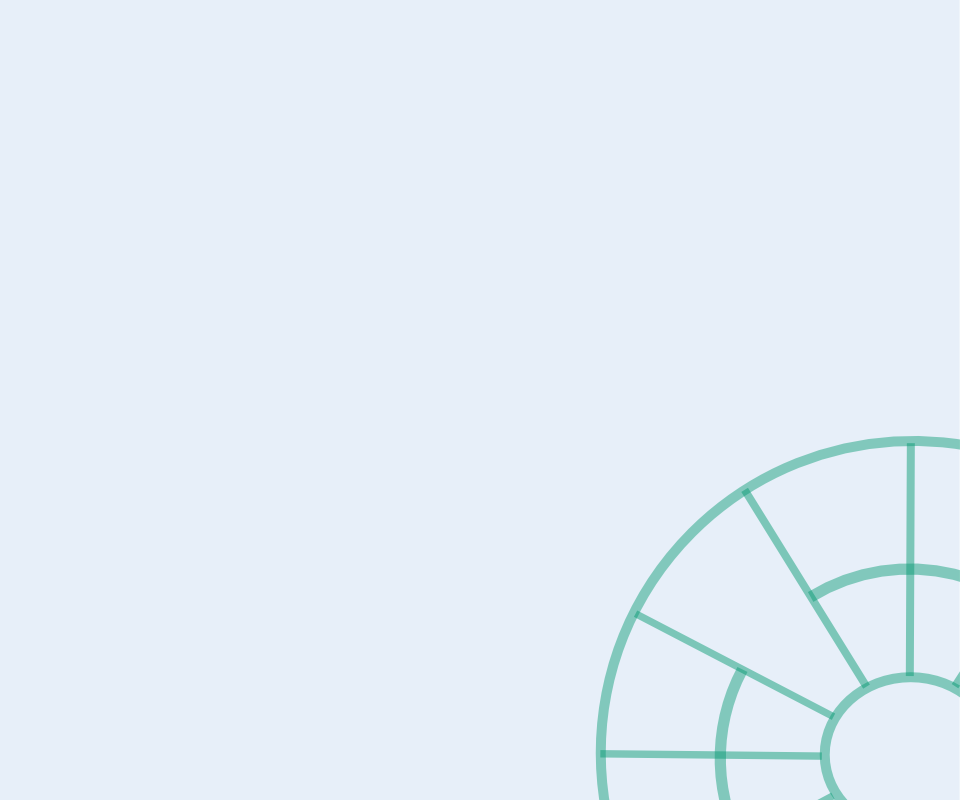
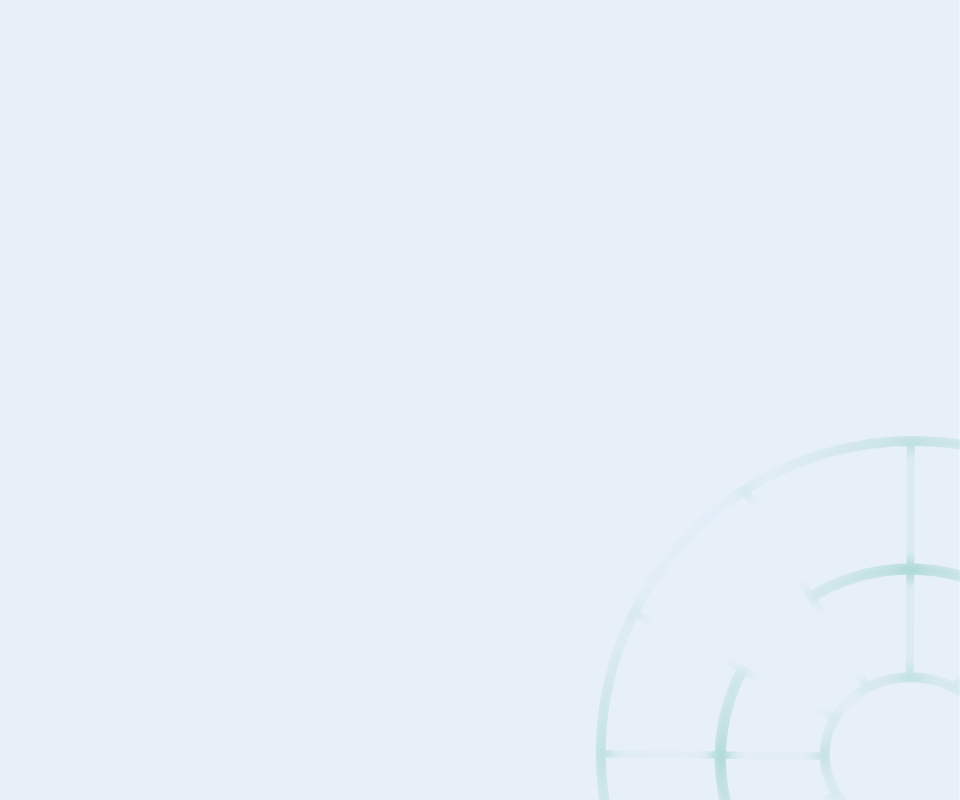
shrunk name/deletion box

Changed region(s): [[0.5938, 0.5312, 1.0, 1.0], [0.6875, 0.5625, 0.875, 0.7188], [0.6562, 0.7188, 0.6875, 0.7812]]

diff --git a/app/assets/stylesheets/sr4.css.scss b/app/assets/stylesheets/sr4.css.scss
@@ -4,6 +4,7 @@ html {
   margin: 0PX;
   padding: 0px;
   height: 100%;
+
 }
 
 @font-face {
@@ -17,8 +18,6 @@ body {
   font-size: 1.3em;
   padding: 0px;
   height: 100%;
-  background: url('sr4background.png') no-repeat center center ;
-  background-size: cover;
 }
 
 #header {
@@ -44,11 +43,12 @@ body {
 }
 
 .wrapper {
-min-height: 100%;
-height: auto !important;
-height: 100%;
-margin: 0 auto -4em;
-
+  min-height: 100%;
+  height: auto !important;
+  height: 100%;
+  margin: 0 auto -4em;
+  background: url('sr4background.png') no-repeat center center ;
+  background-size: cover;
 }
 
 .footer, .push {
@@ -62,6 +62,10 @@ height: 4em;
   font-family: Arial,sans-serif;
   padding: 5em;
   text-align: center;
+}
+
+.fa {
+  color: red;
 }
 
 /*Landing page*/
@@ -125,7 +129,6 @@ height: 4em;
 
 #about-me{
   color:white;
-  background-color: blue;
 }
 
 /*Login*/
@@ -174,9 +177,11 @@ height: 4em;
   display: block;
   border: solid 1px grey;
   border-radius: 15px;
-  position: fixed;
+  position: relative;
   bottom: 10%;
-  margin-left: 90%;
+  margin-left: 82%;
+  margin-right: 2%;
+  margin-bottom: 2%;
   padding: 10px;
 }
 
@@ -186,7 +191,9 @@ height: 4em;
   margin: 10px;
 }
 
-
+#die {
+  color: black;
+}
 /*Character show page*/
 
 .character-info {
@@ -197,6 +204,9 @@ height: 4em;
   text-align: center;
   font-size: 1.6em;
   padding-top: 10px;
+  width: 30%;
+  margin-left:35%;
+  margin-right:35%;
 }
 
 .char-nav {
@@ -236,15 +246,16 @@ height: 4em;
 #new-char {
   text-align: center;
   padding: 20px 0px;
+  margin-top: 10px;
 }
 
 #new-char a {
   text-decoration: none;
   color: black;
   padding: 5px 15px;
-  border: 2px ridge #03542B;
+  border: 2px ridge #029870;
   border-radius: 15px;
-  background-color: rgba(3,84,43,0.1);
+  background-color: rgba(2,152,112,0.1);
 }
 
 .content {
@@ -319,7 +330,7 @@ h6 {
 
 .edit-input {
   width: 100%;
-  max-height: 500px;
+  max-height: 200px;
   overflow: auto;
 }
 
@@ -328,17 +339,15 @@ h6 {
   @include shift(4);
 }
 
-#character-deletion {
+#char-deletion {
   text-align: center;
-  padding-top: 50px;
-  margin: 10px;
 }
 
-.submit-button {
-background-color: gray;
-border-color: black;
-color: white;
 
+.submit-button {
+  background-color: gray;
+  border-color: black;
+  color: white;
 }
 
 .delete-button {

diff --git a/app/assets/javascripts/custom.js b/app/assets/javascripts/custom.js
@@ -112,6 +112,19 @@ toggleEditForms = function() {
   });
 }
 
+var toggleDeletion;
+toggleDeletion = function() {
+  $('#char-deletion').hide();
+  $("#character-name").mouseover(function() {
+    $('#char-deletion').toggle();
+  });
+
+  // $('#delete-').hide();
+  // $("#character-name").mouseover(function() {
+  //   $('#char-deletion').toggle();
+  // });
+}
+
 $( document ).ready(gear);
 $(document).on('page:load', gear);
 
@@ -126,3 +139,6 @@ $(document).on('page:load', statChangeForm);
 
 $( document ).ready(toggleEditForms);
 $(document).on('page:load', toggleEditForms);
+
+$( document ).ready(toggleDeletion);
+$(document).on('page:load', toggleDeletion);
